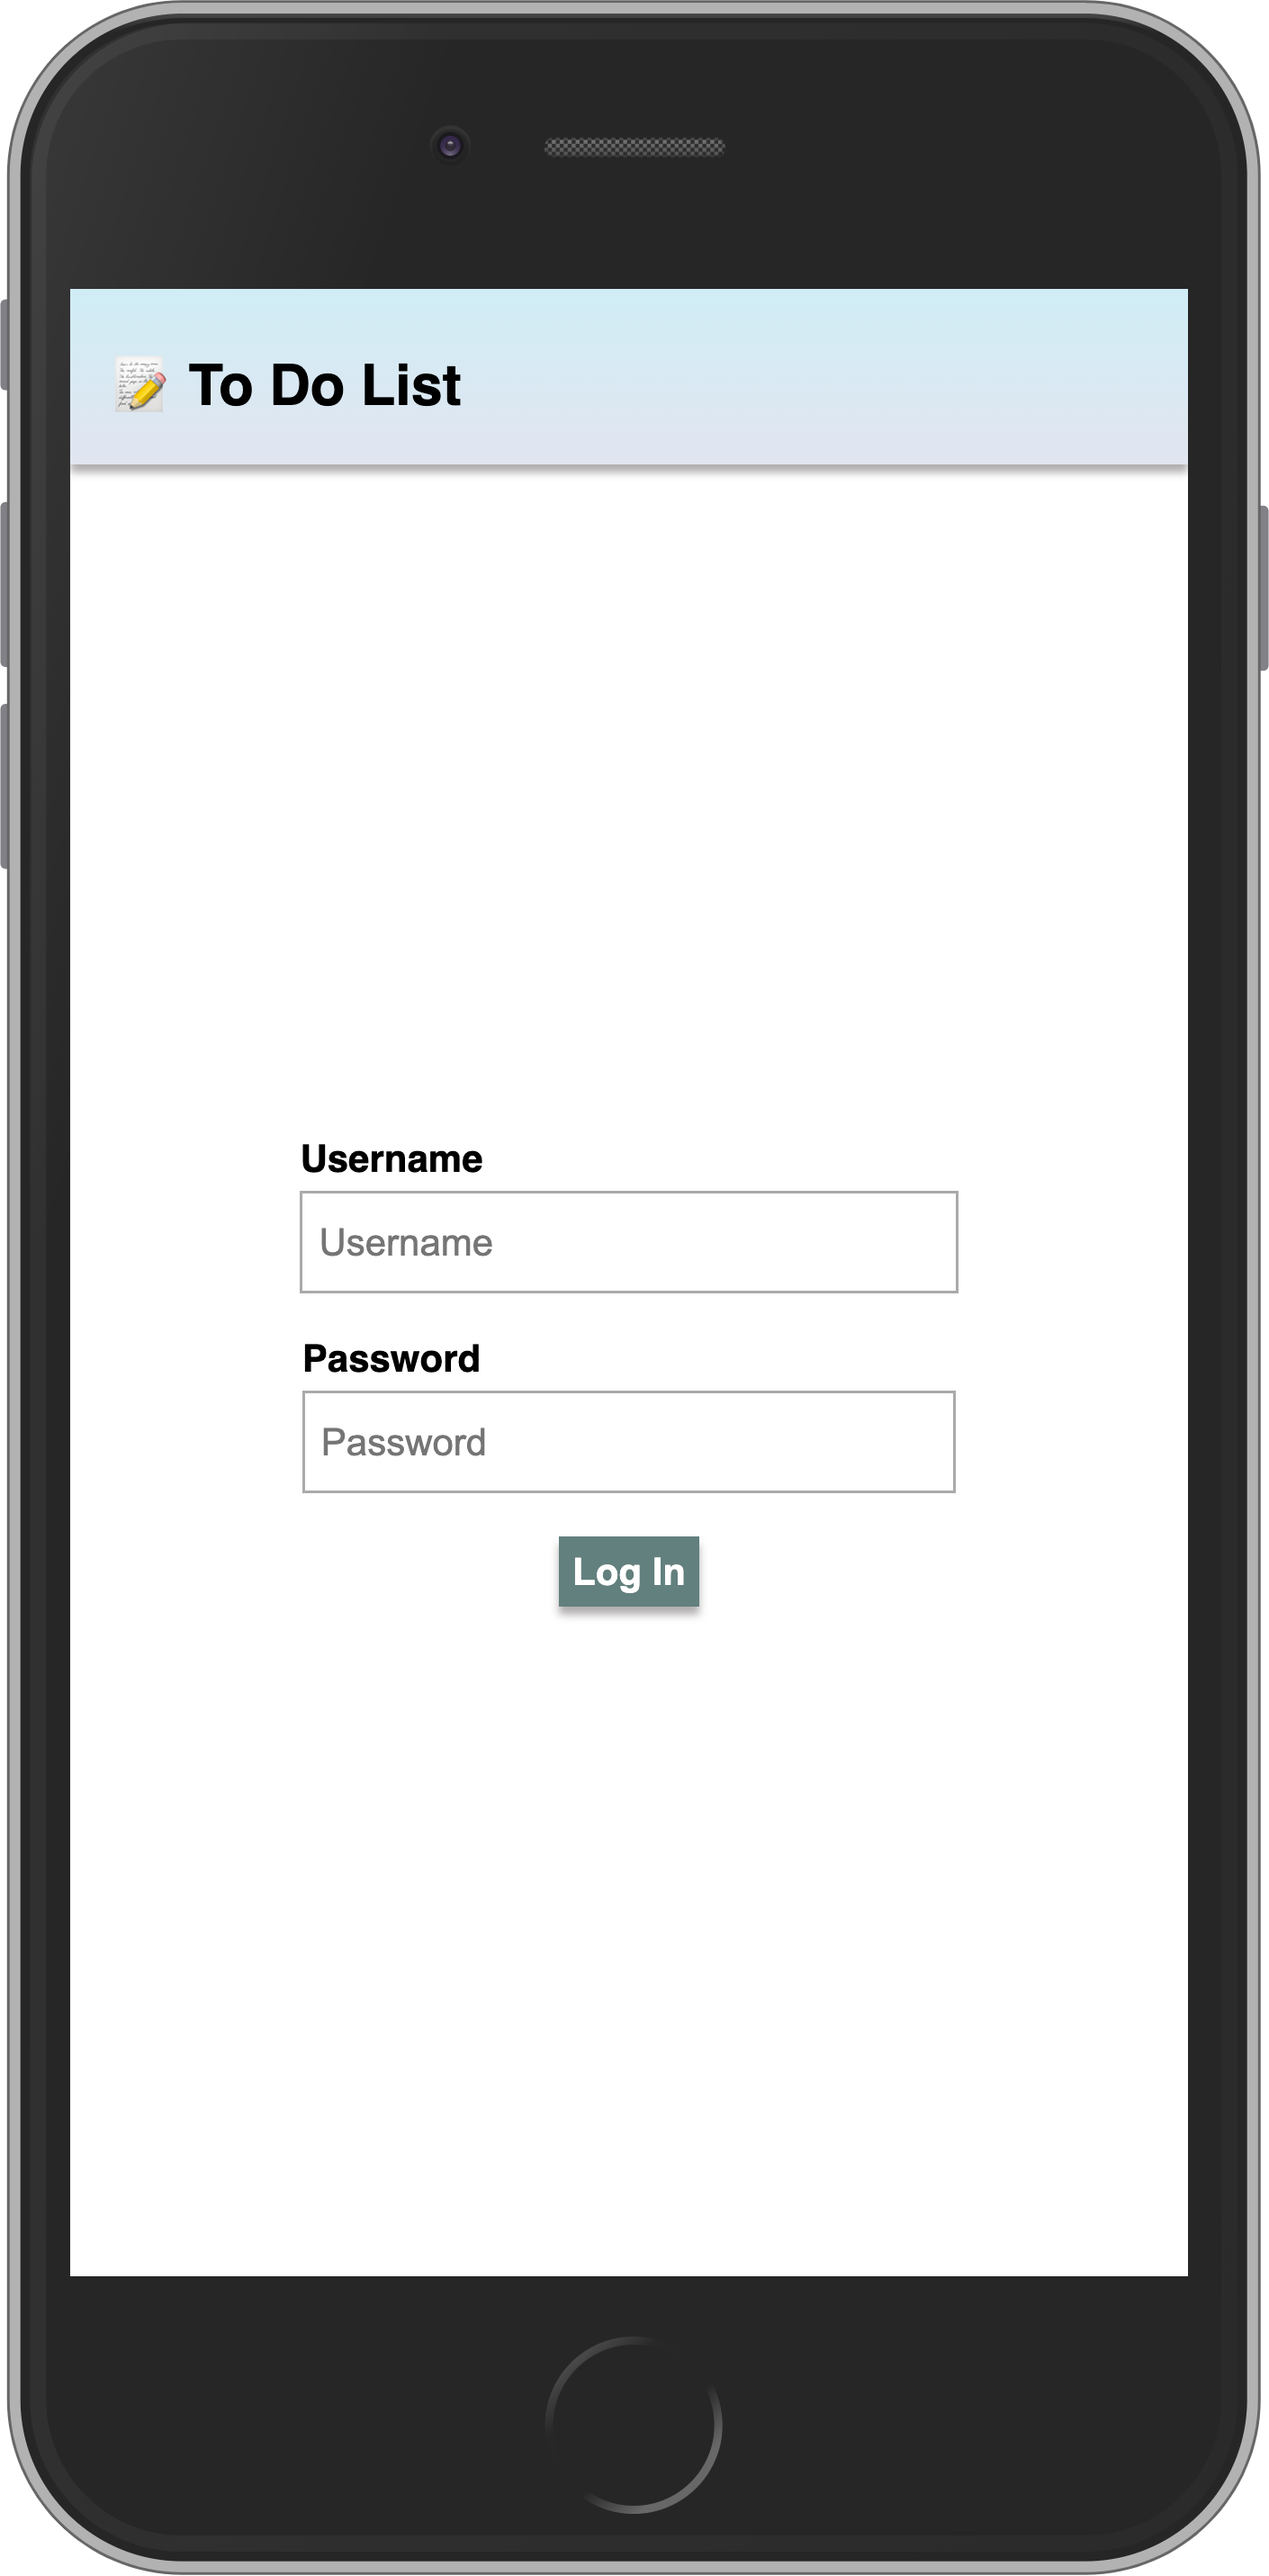
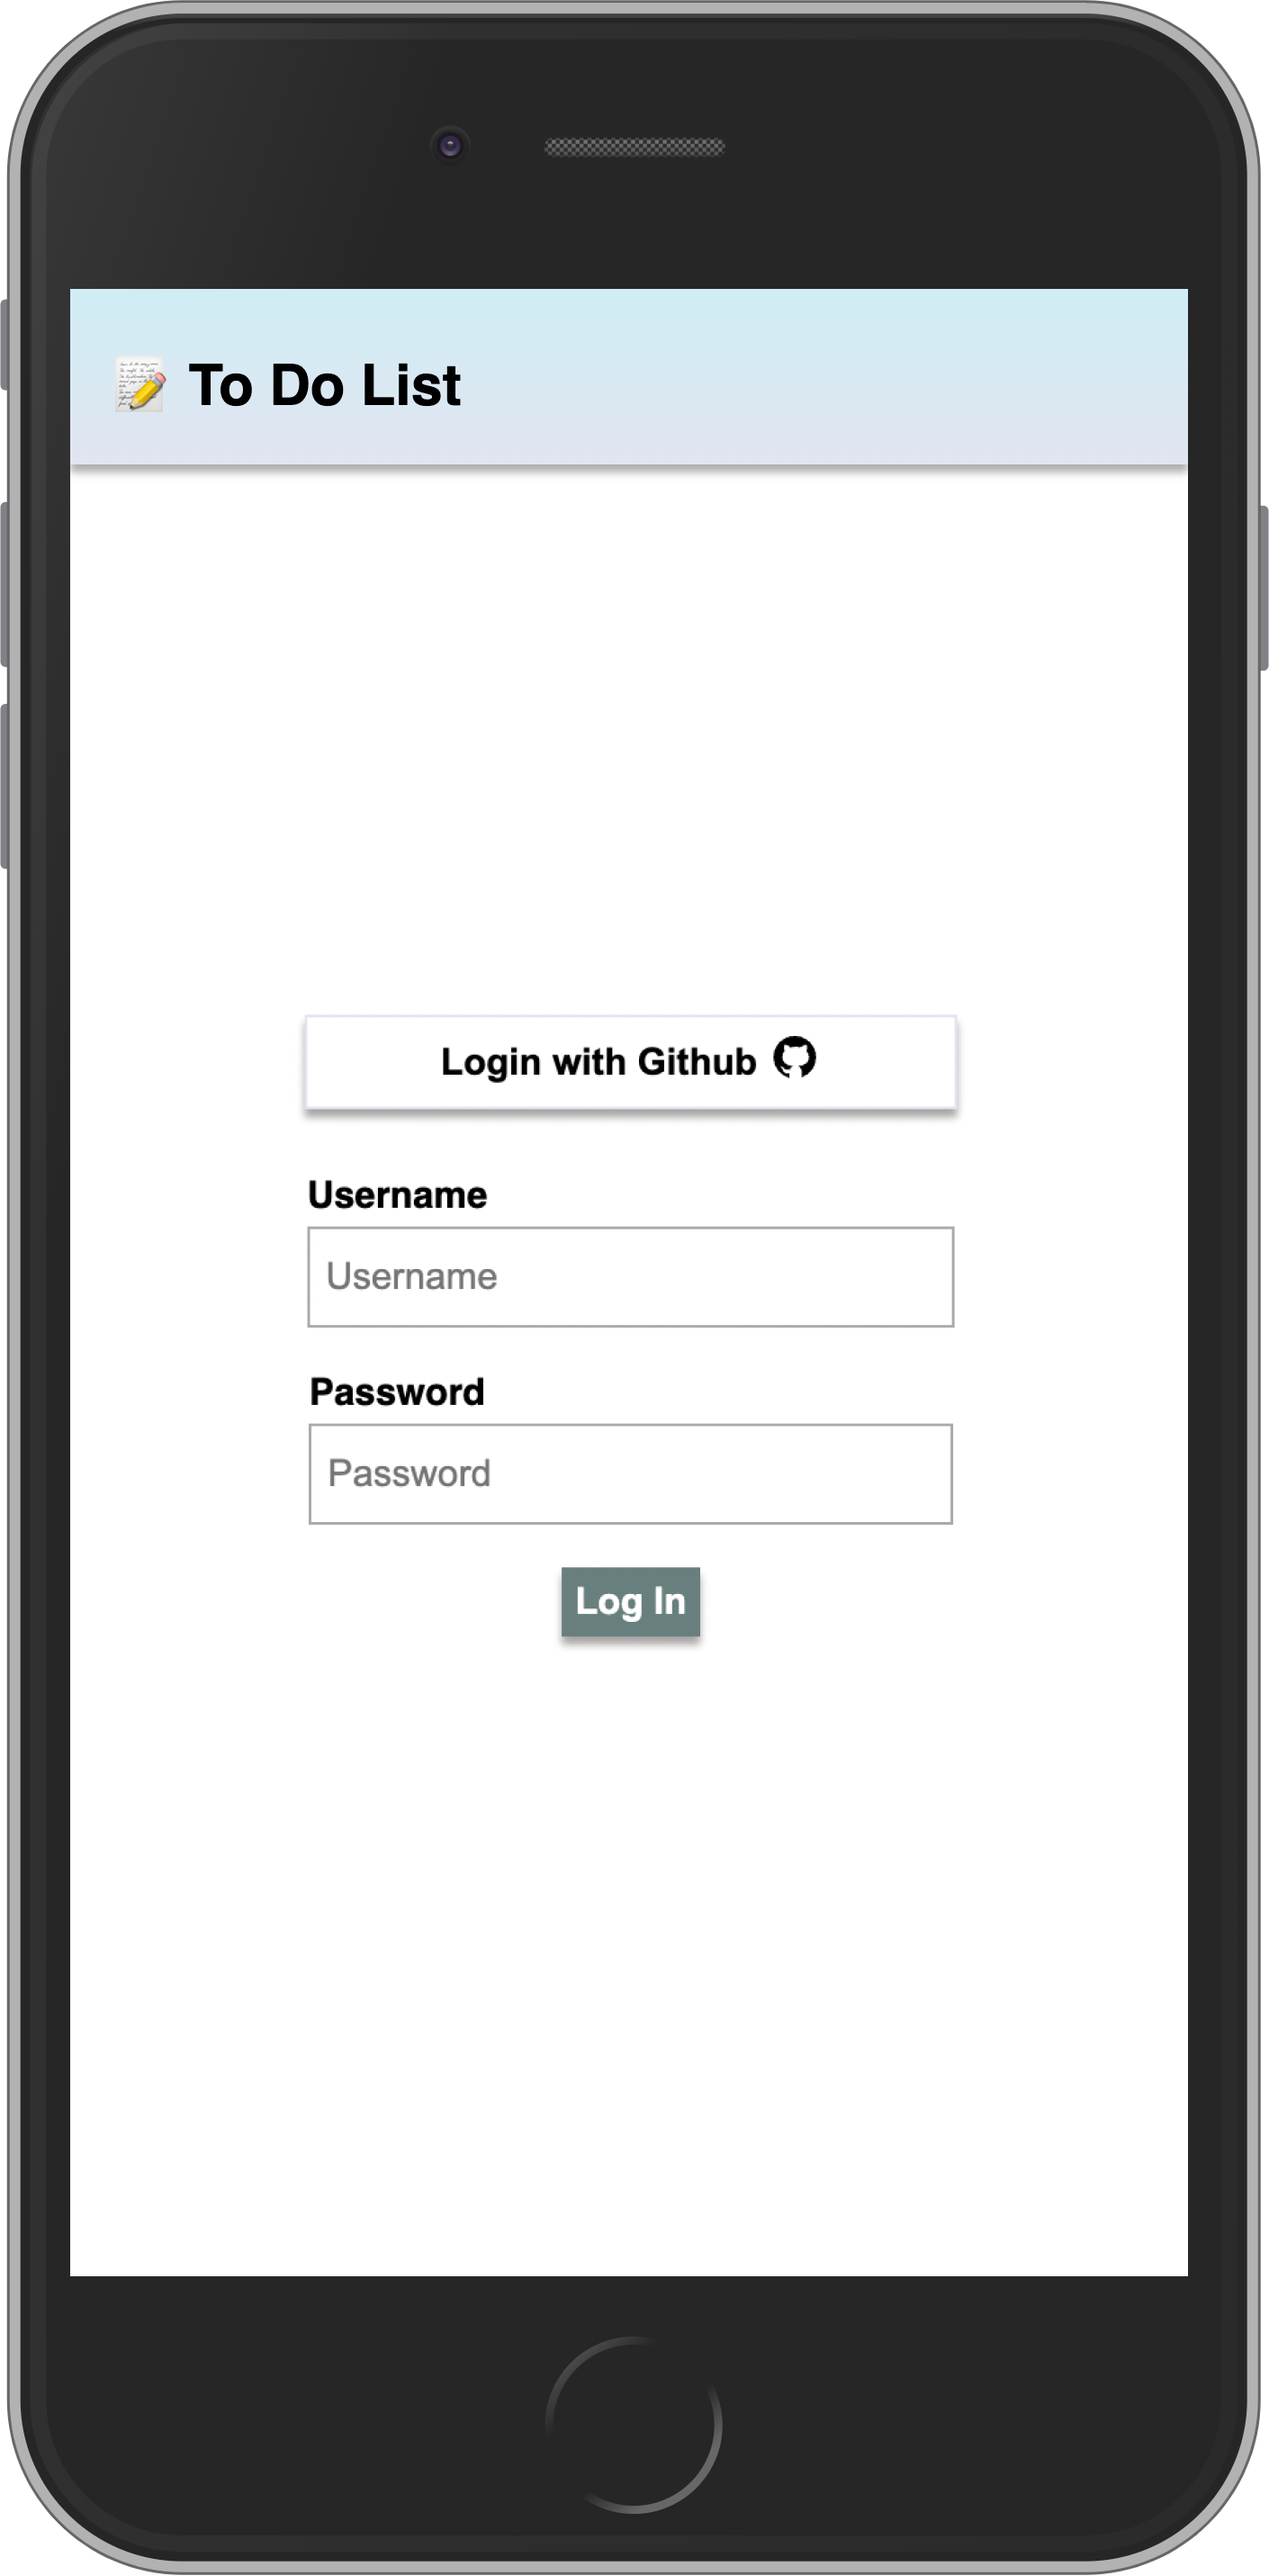
add login with github tutorial

diff --git a/tutorial/simple-todos/08-adding-login-with-github.md b/tutorial/simple-todos/08-adding-login-with-github.md
@@ -90,5 +90,74 @@ export const LoginForm = () => {
     </form>
   );
 };
-
 ```
+
+Your app should look like this: 
+<div>
+  <img width="200px" src="/simple-todos/assets/step08-github-login.png"/>
+</div>
+
+## 8.4: Github Credentials
+
+In order to our Github login works, we need to get our Github Credentials first.
+Register your OAuth Application [on this link](https://github.com/settings/applications/new) filling the `Application Name`, `Homepage URL`, and the `Authorization callback URL`, for both URLs you can use `http://localhost:3000` for now.
+Click on `Register Application`.
+
+On the next screen, grab your `Client ID` and click on `Generate a new client secret` and copy your new client secret.
+We are going to use both of these keys to connect to Github.
+
+Now, we need to configure our server to fully connect to Github, go to `server/main.js`, and import the `ServiceConfiguration` to add your Github credentials.
+
+`server/main.js`
+```js
+import { Meteor } from 'meteor/meteor';
+import { Accounts } from 'meteor/accounts-base';
+import { TasksCollection } from '/imports/api/TasksCollection';
+import { ServiceConfiguration } from 'meteor/service-configuration';
+
+...
+
+Meteor.startup(() => {
+...
+} 
+
+ServiceConfiguration.configurations.upsert(
+  { service: 'github' },
+  {
+    $set: {
+      loginStyle: 'popup',
+      clientId: '', // insert your clientId here
+      secret: '', // insert your secret here
+    },
+  }
+);
+```
+
+Awesome! You now have your Github authentication configured, you can try login in with your own Github account.
+
+## 8.5: Fixing the display name
+
+You will notice when you login into our Todo app, that your name is not appearing on the right corner next to the logout door button.
+That happens because the data structure is a little bit different and we need to fix that.
+
+The `user.username` is null in this case, so we need to grab the user information from `user.profile.name`.
+
+`imports/ui/App.jsx`
+```js
+export const App = () => {
+  ...
+    {user ? (
+      <Fragment>
+        <div className="user" onClick={logout}>
+          {user.username || user.profile.name} 🚪
+        </div>
+
+        <TaskForm user={user} />
+...
+```
+
+And now you have everything working as before.
+
+> Review: you can check how your code should be at the end of this step [here](https://github.com/meteor/react-tutorial/tree/master/src/simple-todos/step08) 
+
+In the next step, we are going to start using Methods to only change the data after checking some conditions.

diff --git a/tutorial/simple-todos/07-adding-user-accounts.md b/tutorial/simple-todos/07-adding-user-accounts.md
@@ -408,4 +408,4 @@ Your app should look like this:
 
 > Review: you can check how your code should be at the end of this step [here](https://github.com/meteor/react-tutorial/tree/master/src/simple-todos/step07) 
 
-In the next step, we are going to start using Methods to only change the data after checking some conditions.
+In the next step, we are going to implement the authentication using the Github provider.
